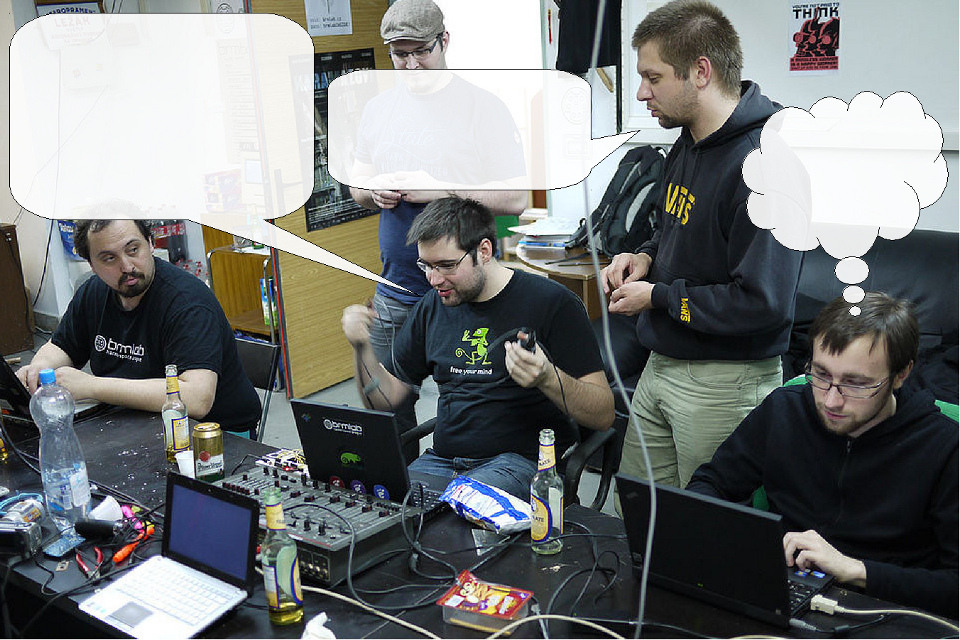
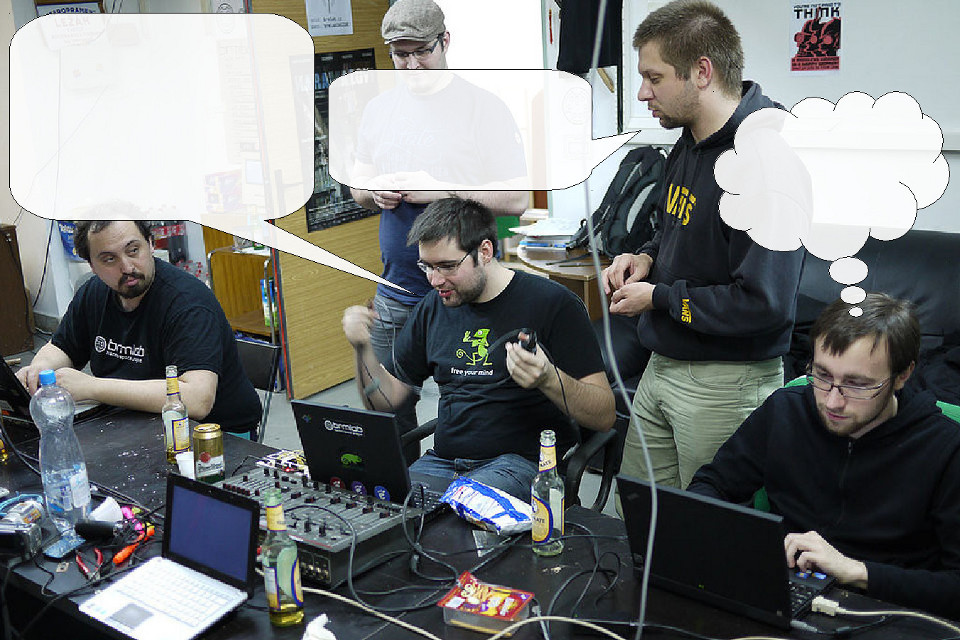
join the darkside

diff --git a/index.html b/index.html
@@ -4,6 +4,14 @@
 <meta charset="utf-8">
 <link href="http://fonts.googleapis.com/css?family=Patrick+Hand&subset=latin,latin-ext" rel="stylesheet" type="text/css"/>
 <style type="text/css">
+body {
+	background: #000;
+	color: #888;
+	font-size: 0.9em;
+}
+a {
+	color: #0ff;
+}
 #img {
 	position: absolute;
 	width: 960px;
@@ -16,11 +24,12 @@ div.bub {
 	font-family: 'Patrick Hand', cursive;
 	text-align: center;
 	font-size: 30px;
+	color: #000;
 }
 #bub1 {
-	left: 34px;
+	left: 38px;
 	top: 30px;
-	width: 290px;
+	width: 282px;
 	height: 190px;
 }
 #bub2 {
@@ -30,9 +39,9 @@ div.bub {
 	height: 150px;
 }
 #bub3 {
-	left: 770px;
+	left: 740px;
 	top: 130px;
-	width: 180px;
+	width: 200px;
 	height: 120px;
 	line-height: 120px;
 }
@@ -56,7 +65,7 @@ function randomhack()
 	var s6 = new Array("na baterky", "naplnený LSD", "pre tehotné ženy", "na diaľkové ovládanie", "na vesmírnu energiu");
 	var sar = new Array("To už bolo na Hack&#8209a&#8209Day", "Sa nedivím, že si furt sám", "Tak určitéééé", "Z toho musíme spraviť kit", "To je popiči nápad", "To potom vezmeme na Freezefest", "Myslím, že to preháňaš s Club Mate", "Už sa teším na workshop", "To by chcelo lightning talk");
 	var btr = new Array("wub-wub-wub", "ceckyyy!", "4chaaan", "jebe na hlavu", "apinaaa", "to je na piču", "hipster alert", "easy as fuck", "fuck this shit", "to nebudu dělat", "fap-fap-fap");
-	document.getElementById('bub1').innerHTML = rnd(s1) + "<br/>" + rnd(s2) + " " + rnd(s3) + " " + rnd(s4) + " " + rnd(s5) + " " + rnd(s6) + "!";
+	document.getElementById('bub1').innerHTML = rnd(s1) + " " + rnd(s2) + " " + rnd(s3) + " " + rnd(s4) + " " + rnd(s5) + " " + rnd(s6) + "!";
 	document.getElementById('bub2').innerHTML = rnd(sar) + ".";
 	document.getElementById('bub3').innerHTML = rnd(btr);
 }
